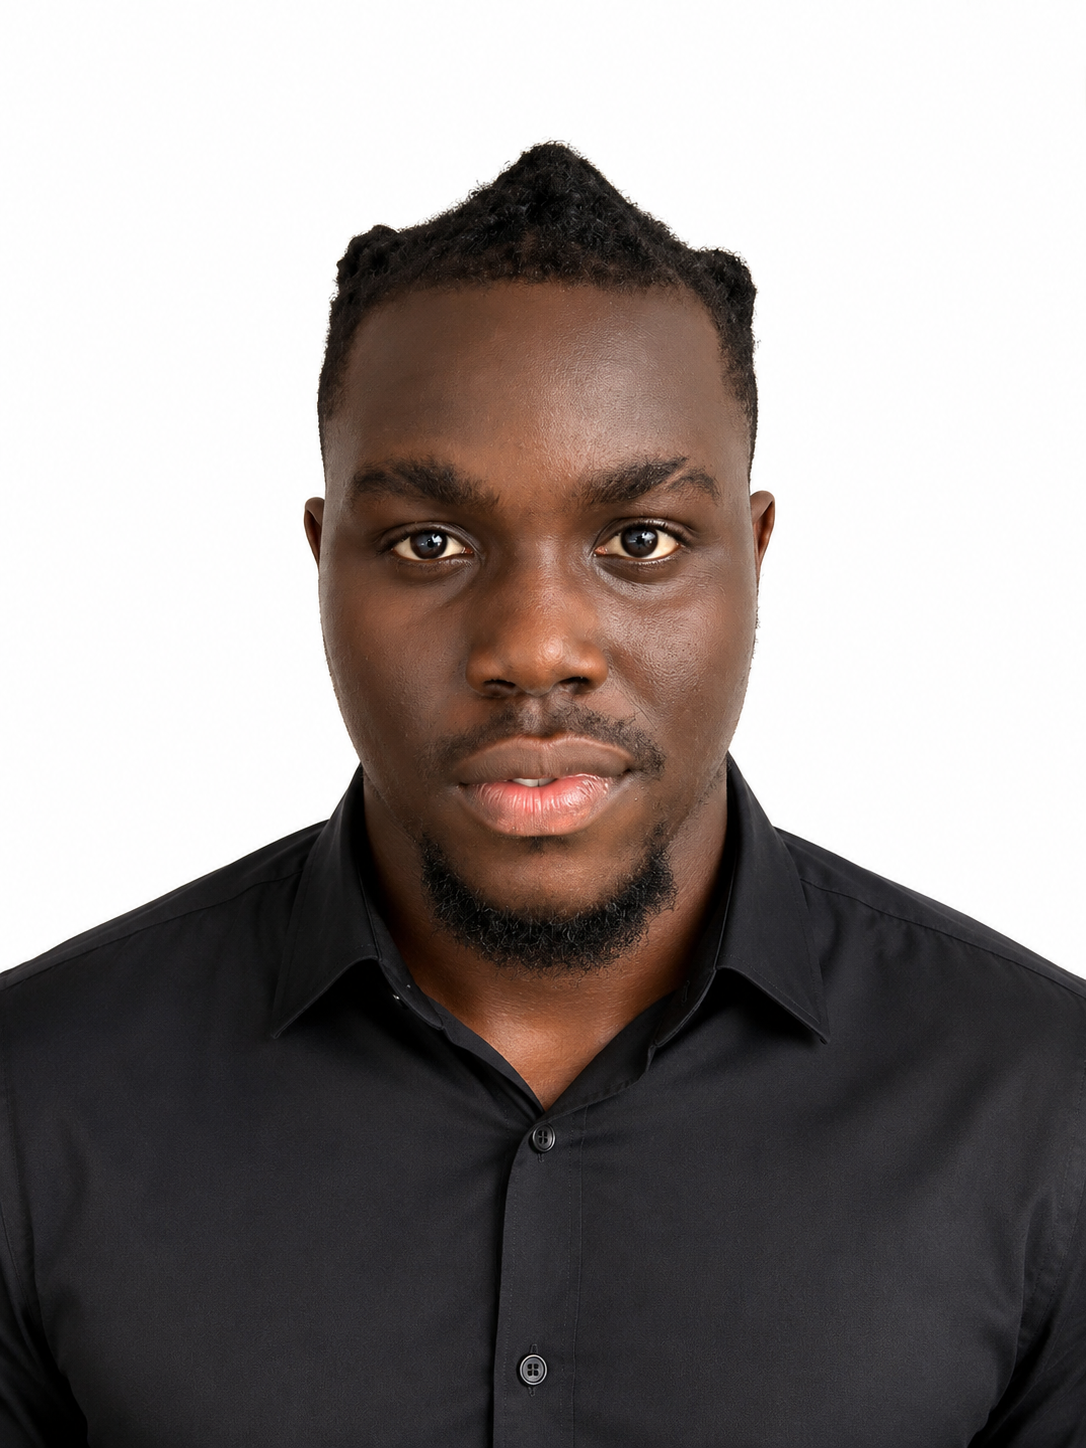
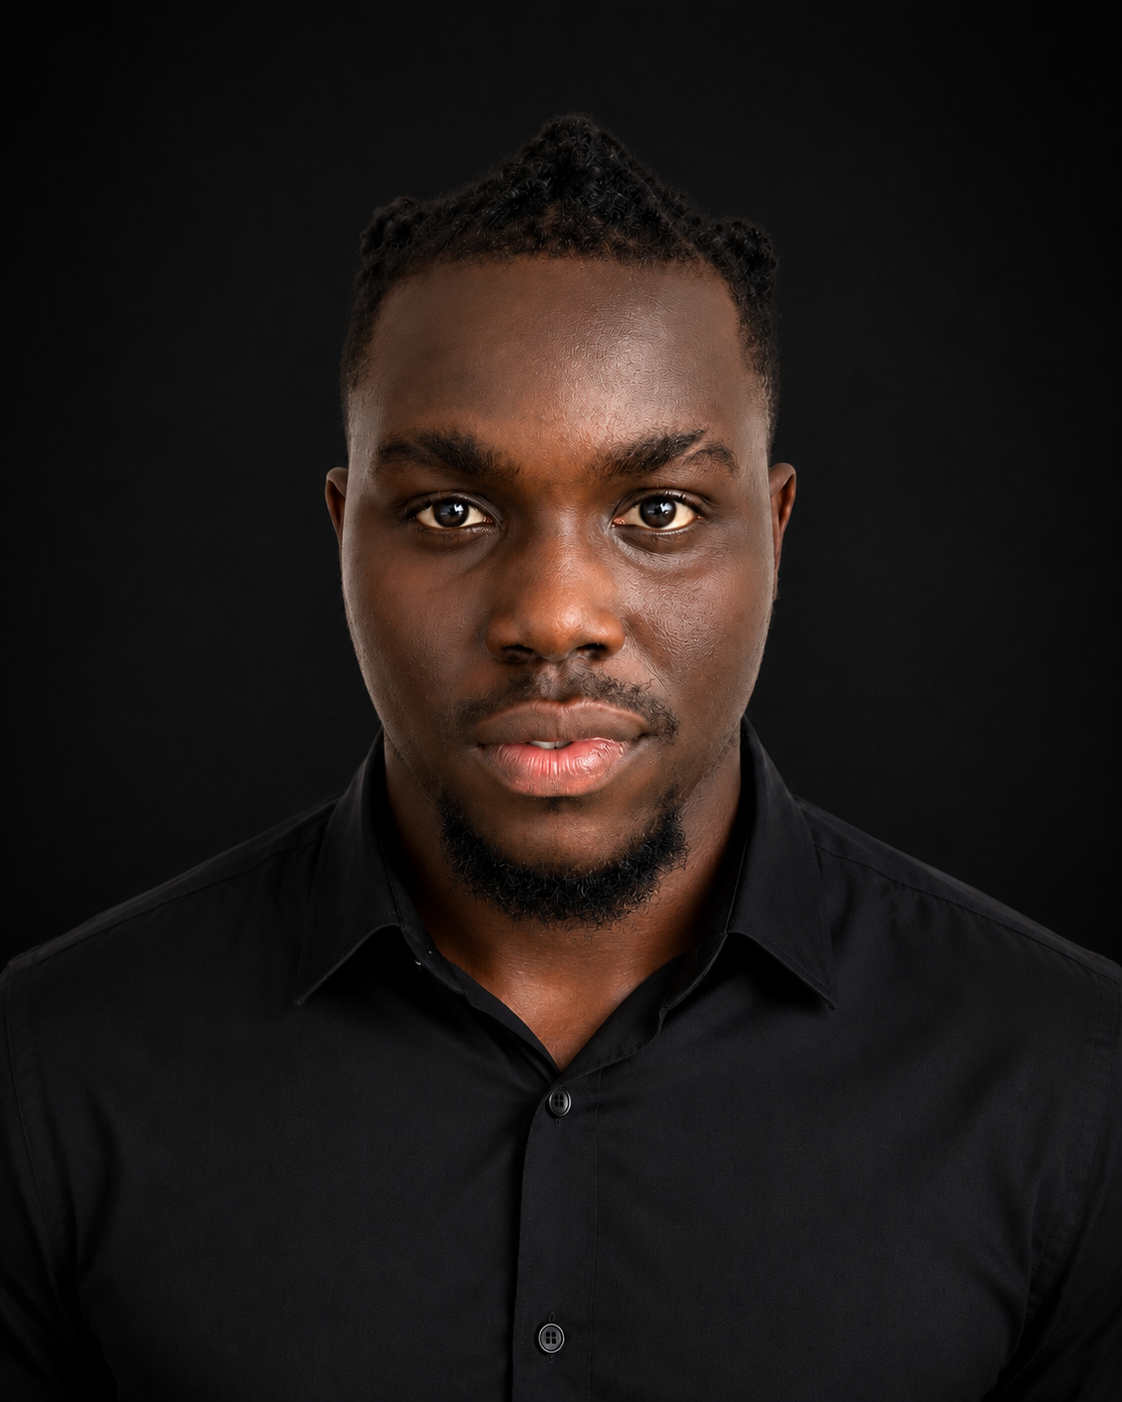
update

diff --git a/app/team/data.ts b/app/team/data.ts
@@ -47,9 +47,9 @@ export const teamMembers = [
         role: "Playable Protagonist",
         title: "Main Character",
         badge: "03",
-        image: "/products/Monrovia_hustle_Demo_Campane/cast_concept/Dominc%20Rockson.jpeg",
+        image: "/products/Monrovia_hustle_Demo_Campane/cast_concept/Dominc%20Rockson.png",
         photos: [
-            { id: "01", image: "/products/Monrovia_hustle_Demo_Campane/cast_concept/Dominc%20Rockson.jpeg", caption: "Dominic Rockson (Voice Talent)" }
+            { id: "01", image: "/products/Monrovia_hustle_Demo_Campane/cast_concept/Dominc%20Rockson.png", caption: "Dominic Rockson (Voice Talent)" }
         ],
         tagline: "Sidewalk calculus",
         bio: "Twenty-four on a thin wage. Carey and Benson know his stride — hustle as survival math, receipts as morality. Jboy is brought to life by the voice talent of Dominic Rockson, whose performance captures the raw energy and cultural depth of Monrovia's streets.",
@@ -68,8 +68,8 @@ export const teamMembers = [
         role: "Cast Concept · HUIX Archive",
         title: "HUIX Archive",
         badge: "04",
-        image: "/products/Monrovia_hustle_Demo_Campane/cast_concept/Arthur%20B.%20Kollie.jpeg",
-        photos: [{ id: "01", image: "/products/Monrovia_hustle_Demo_Campane/cast_concept/Arthur%20B.%20Kollie.jpeg", caption: "Arthur" }],
+        image: "/products/Monrovia_hustle_Demo_Campane/cast_concept/Arthur%20B.%20Kollie.png",
+        photos: [{ id: "01", image: "/products/Monrovia_hustle_Demo_Campane/cast_concept/Arthur%20B.%20Kollie.png", caption: "Arthur" }],
         tagline: "Concept Tier 01",
         bio: "A key figure in the Monrovia Hustle narrative landscape, shaping the city's social and political undercurrents. Representing the established weight of the city, his concept points toward high-stakes interactions and structural pressure.",
         focus: "Narrative · Influence",

diff --git a/app/products/monrovia-hustle/concept/page.tsx b/app/products/monrovia-hustle/concept/page.tsx
@@ -252,16 +252,16 @@ const CAST = [
     name: "Jboy",
     role: "Playable protagonist",
     epithet: "Sidewalk calculus",
-    imageSrc: cc("Dominc Rockson.jpeg"),
-    imageAlt: "Dominic Rockson — Voice talent for Jboy",
+    imageSrc: cc("Dominc Rockson.png"),
+    imageAlt: "Dominic Rockson — Monrovia Hustle 3D voice cast · Jboy",
     href: "/team/jboy",
   },
   {
     name: "Arthur B. Kollie",
     role: "Cast Concept · HUIX Archive",
     epithet: "Concept Tier 01",
-    imageSrc: cc("Arthur B. Kollie.jpeg"),
-    imageAlt: "Arthur B. Kollie — Monrovia Hustle 3D cast concept reference",
+    imageSrc: cc("Arthur B. Kollie.png"),
+    imageAlt: "Arthur B. Kollie — Monrovia Hustle 3D voice cast concept",
     href: "/team/arthur-kollie",
   },
   {
